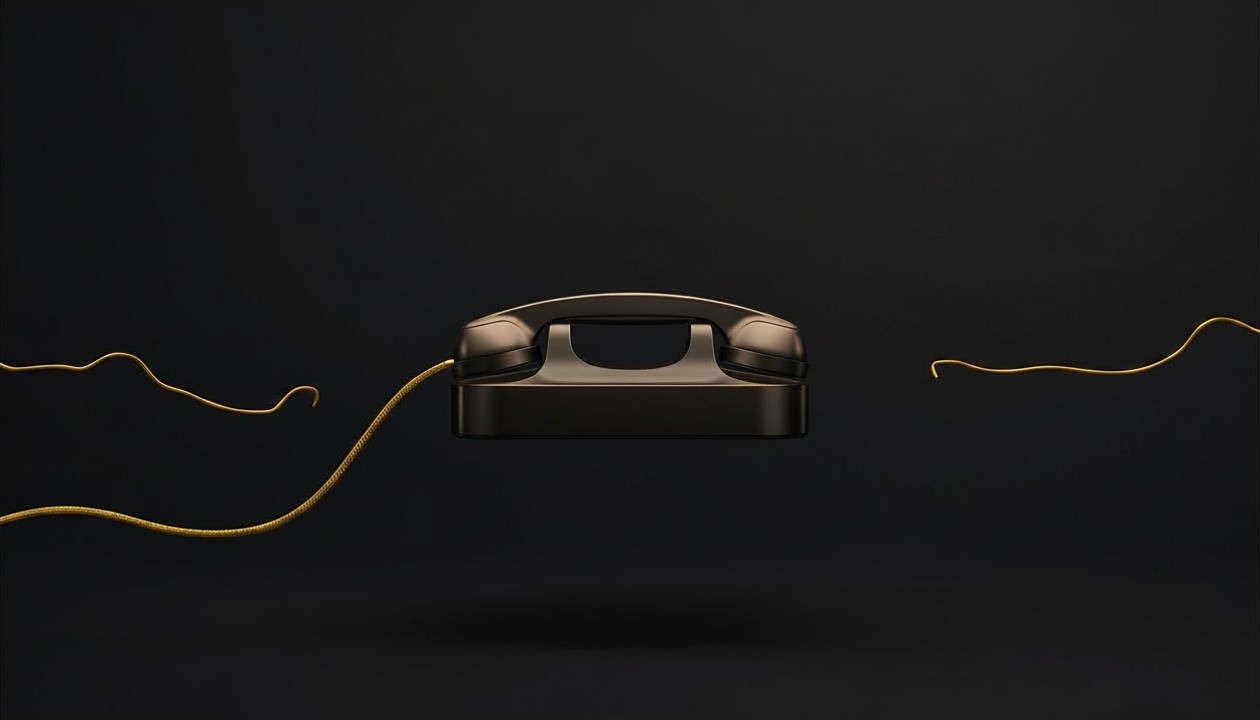
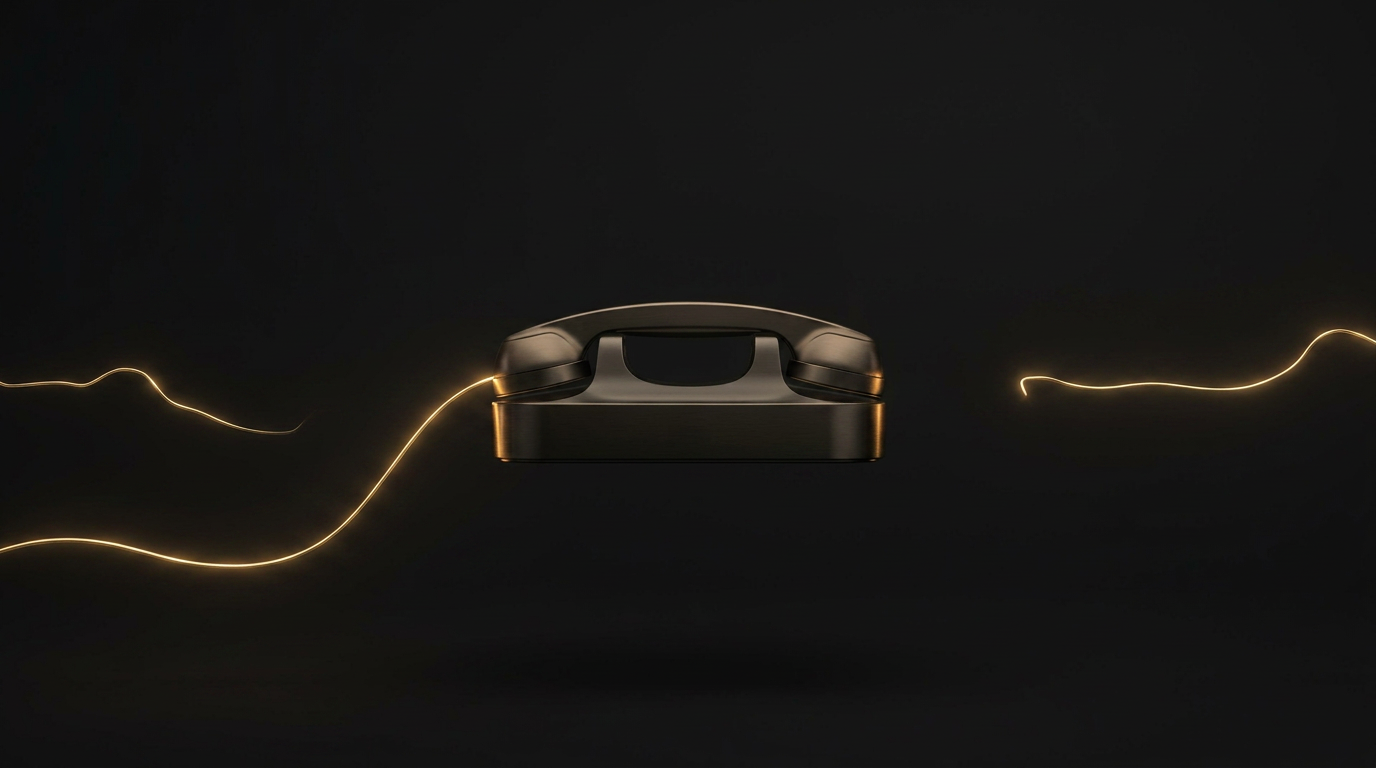
Changes

diff --git a/src/components/site/Contact.tsx b/src/components/site/Contact.tsx
@@ -3,7 +3,7 @@ export function Contact() {
     <section
       id="contact"
       className="py-32 md:py-48"
-      style={{ backgroundColor: "oklch(0.265 0.014 45)" }}
+      style={{ backgroundColor: "oklch(0.16 0.006 260)" }}
     >
       <div className="mx-auto max-w-[1400px] px-6 md:px-12">
         <div className="grid grid-cols-12 gap-8 md:gap-12">
